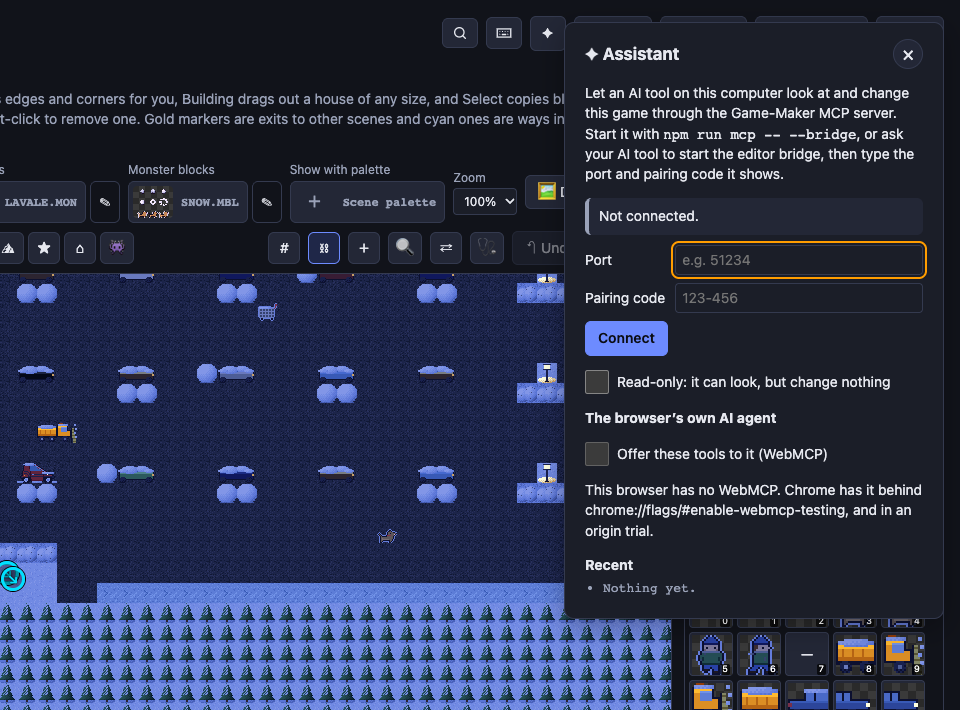
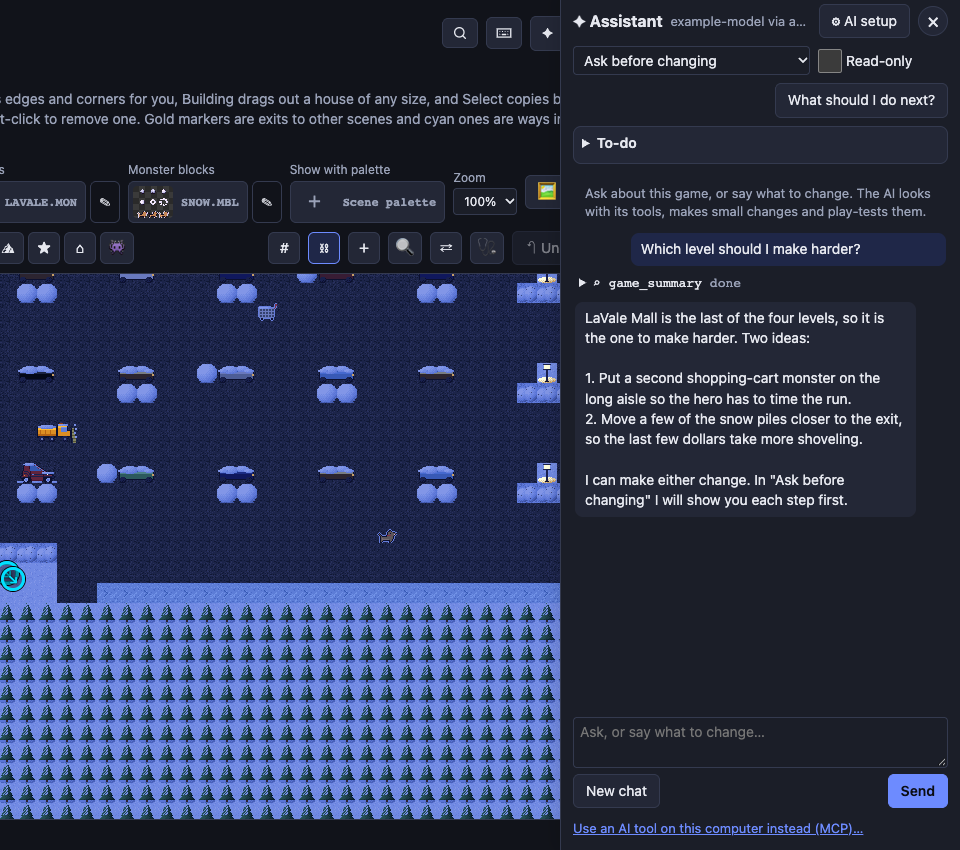
docs/editor.md: the Assistant section is the built-in chat (AI setup for Ollama or OpenAI-compatible, Ask before changing, What should I do next?, Describe a game…) and the MCP bridge, its picture the chat with a scripted stand-in model; the home section names Describe a game…

diff --git a/docs/editor.md b/docs/editor.md
@@ -36,6 +36,8 @@ theme. Some are cropped to the part that matters.
 The home page lists every game by tab: _My games_, _Imported_, the Sandbox and Bizarre games,
 the CD's Gameware and its Shareware. Picking one plays its title demo in the side panel, with
 Play, Look inside, Keys, the manual, the walkthrough, saves and scores, and Download beside it.
+_+ New game_ starts an empty game, and _✦ Describe a game…_ has your own AI build one from a
+few lines of description (see [the Assistant](#the-assistant-and-the-mcp-server)).
 
 ![The My games tab with one game, a copy of Snowbound, under "Continue where you left off", and a Getting started box](screenshots/editor/01-my-games.webp)
 
@@ -221,11 +223,20 @@ out marked.
 
 ## The Assistant and the MCP server
 
-![The map editor with the Assistant panel open: a port and pairing code to connect, a read-only switch, and an option to offer the tools to the browser's own AI agent](screenshots/editor/23-assistant.webp)
+![The map editor with the Assistant chat open beside it: Ask before changing and Read-only at the top, What should I do next?, a question about which level to make harder, the game_summary tool the AI used, and its answer](screenshots/editor/23-assistant.webp)
 
-The ✦ button beside a file's title opens the Assistant. It connects the open game to an AI tool
-on your computer through the Game-Maker MCP server (`npm run mcp -- --bridge` in `web/`), so the
-tool can look at the game, run the Level check, take screenshots and make changes, each one a
-step you can undo. There is a read-only switch, and in browsers that have WebMCP the same tools
-can be offered to the browser's own agent. The server also works on game folders without the
-editor; see [the MCP server's README](../web/scripts/mcp/README.md).
+The ✦ button beside a file's title opens the Assistant, a chat with your own AI about the open
+game. _AI setup_ connects it to Ollama, on this computer or another, or to any OpenAI-compatible
+server; the address, model and key stay in this browser. The AI looks at the game with the same
+tools the Level check and the bot use, and makes small changes and play-tests them. In _Ask
+before changing_ each change waits for Apply or Skip; _Change freely_ applies them with Undo
+still there, and _Read-only_ keeps it to looking. _What should I do next?_ runs the Level check, the bot
+and the file checks and has the AI say what to fix first (with no AI set up, it lists what the
+checks found), and the game keeps a to-do list. _Describe a game…_, for an empty game here or on
+the home page, builds a game from a description until the bot can win it. The picture was taken with a
+scripted stand-in for a model, not a real AI.
+
+_Use an AI tool on this computer instead (MCP)…_ at the bottom of the chat connects the open game
+to the Game-Maker MCP server instead (`npm run mcp -- --bridge` in `web/`), so an AI tool such as
+Claude Code can work on it, each change a step you can undo. The server also works on game
+folders without the editor; see [the MCP server's README](../web/scripts/mcp/README.md).
